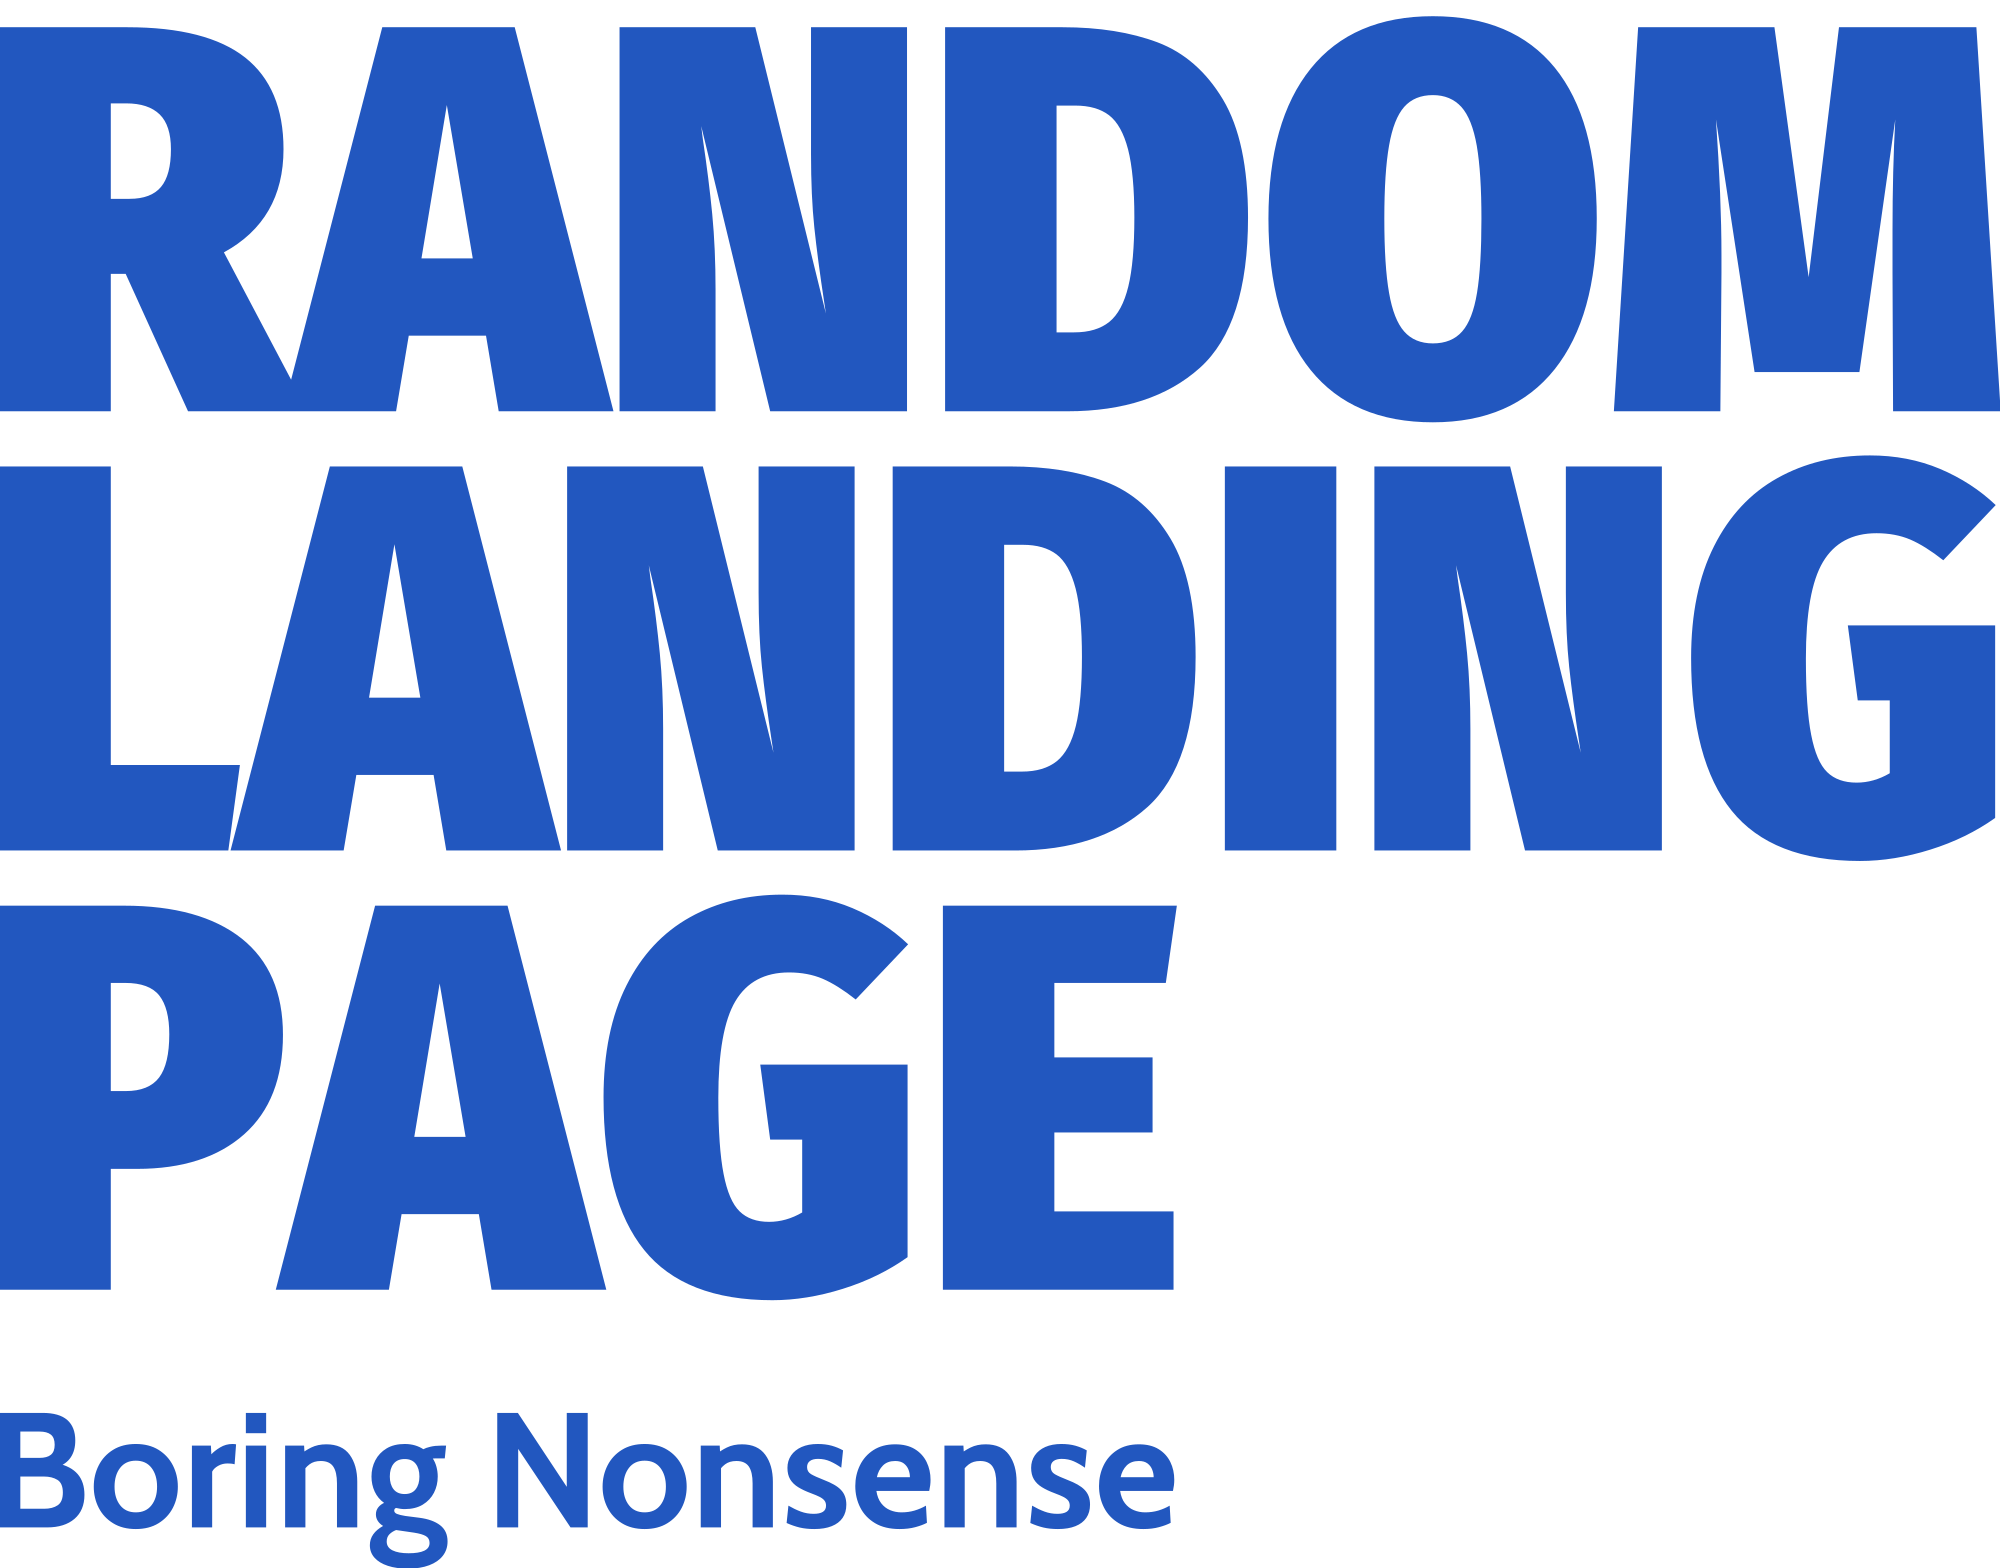
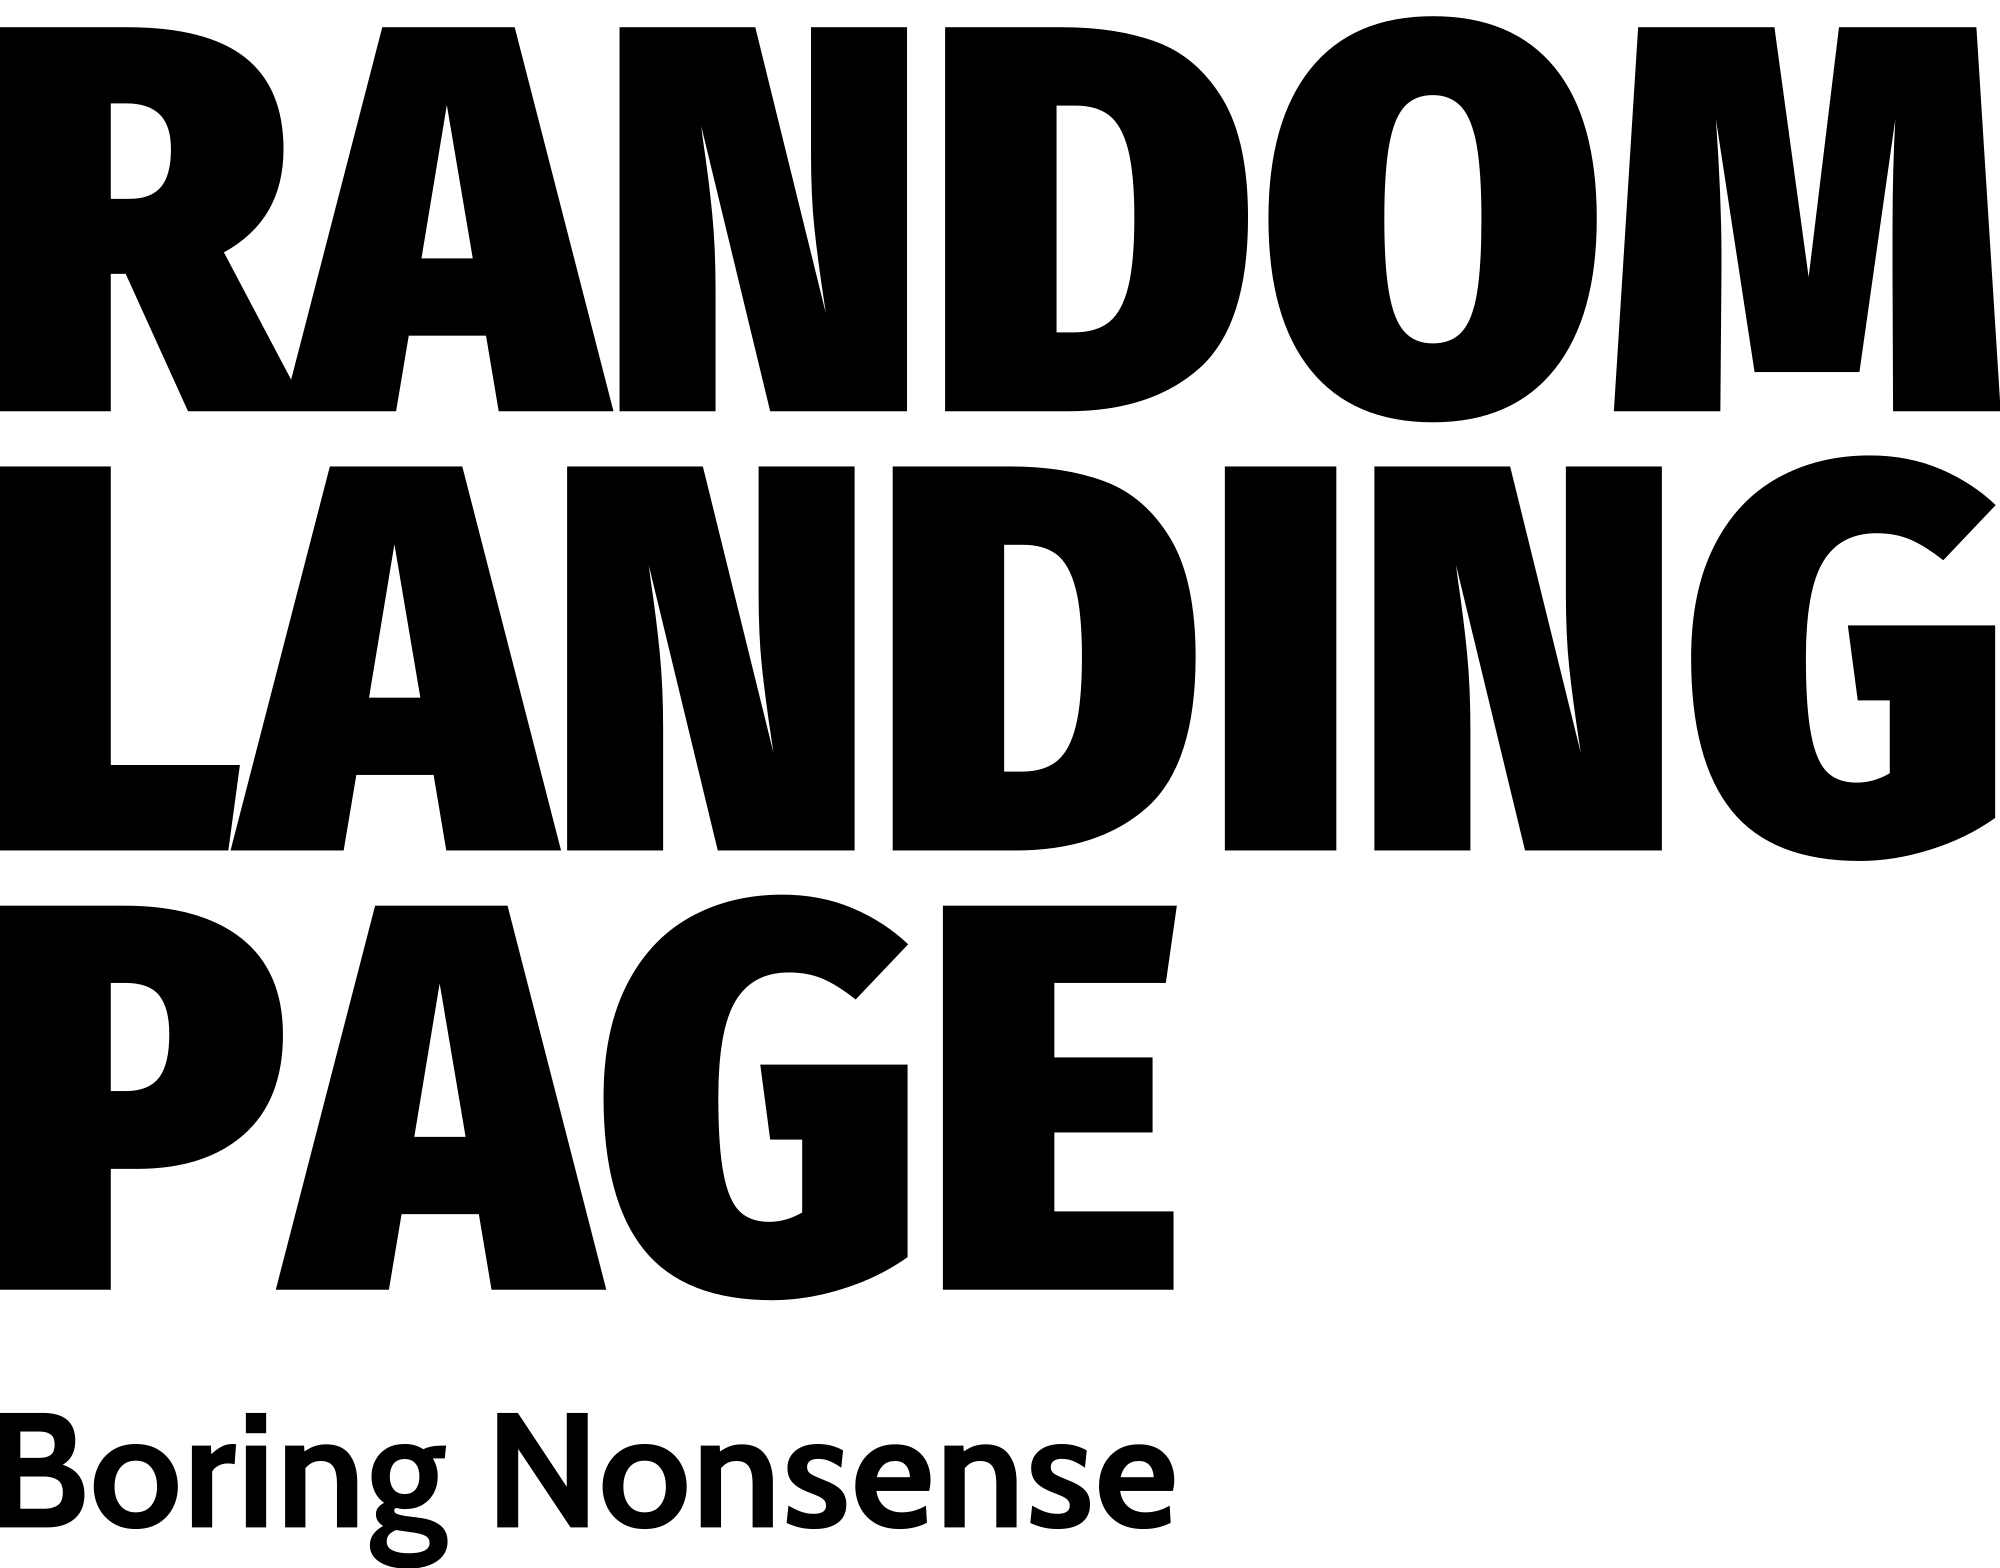
Changed colour palette and image filters to improve contrast.

diff --git a/style.css b/style.css
@@ -1,11 +1,13 @@
 body {
-    font-family:'Franklin Gothic Medium', 'Arial Narrow', Arial, sans-serif;
     background-color: azure;
+    font-family:'Franklin Gothic Medium', 'Arial Narrow', Arial, sans-serif;
+    color: black;
 
     padding: 0px 75px;
 
     display: flex;
     flex-direction: column;
+    gap: 10px;
 }
 
 /************************************************************/
@@ -33,7 +35,6 @@ header {
 #header-links {
     list-style: none;
     font-size: 20px;
-    color: #2257bf;
     
     margin: 0px;
     padding: 0px 175px 0px 0px;
@@ -93,8 +94,7 @@ header {
 #sign-up {
     font-size: 25px;
     font-weight: 800;
-    background-color: #F2C12E;
-    color: #2257bf;
+    background-color: #48CAD9;
     
     margin-top: 20px;
 
@@ -108,6 +108,41 @@ header {
 
 /************************************************************/
 
+#second {
+    background-color: #F2C12E;
+
+    min-width: 796px;
+    padding: 25px;
+
+    display: flex;
+    flex-direction: column;
+    align-items: center;
+}
+
+#second ul {
+    list-style: none;
+
+    width: 100%;
+    padding: 0px;
+
+    display: flex;
+    align-items: center;
+    justify-content: space-around;
+}
+
+#second ul li {
+    display: flex;
+    flex-direction: column;
+    align-items: center;
+}
+
+#second ul li img {
+    border: 5px solid black;
+    border-radius: 5px;
+
+    width: 150px;
+    height: 150px;
+}
 
 
 /************************************************************/

diff --git a/index.html b/index.html
@@ -32,13 +32,13 @@
         </div>
     </section>
 
-    <section>
+    <section id="second">
         <h2>This is some useless information...</h2>
         <ul id="pictures">
-            <li><img><p>Picture 1</p></li>
-            <li><img><p>Picture 2</p></li>
-            <li><img><p>Picture 3</p></li>
-            <li><img><p>Picture 4</p></li>
+            <li><img src="image1.jpg"><p>Picture 1</p></li>
+            <li><img src="image1.jpg"><p>Picture 2</p></li>
+            <li><img src="image1.jpg"><p>Picture 3</p></li>
+            <li><img src="image1.jpg"><p>Picture 4</p></li>
         </ul>
     </section>
 
